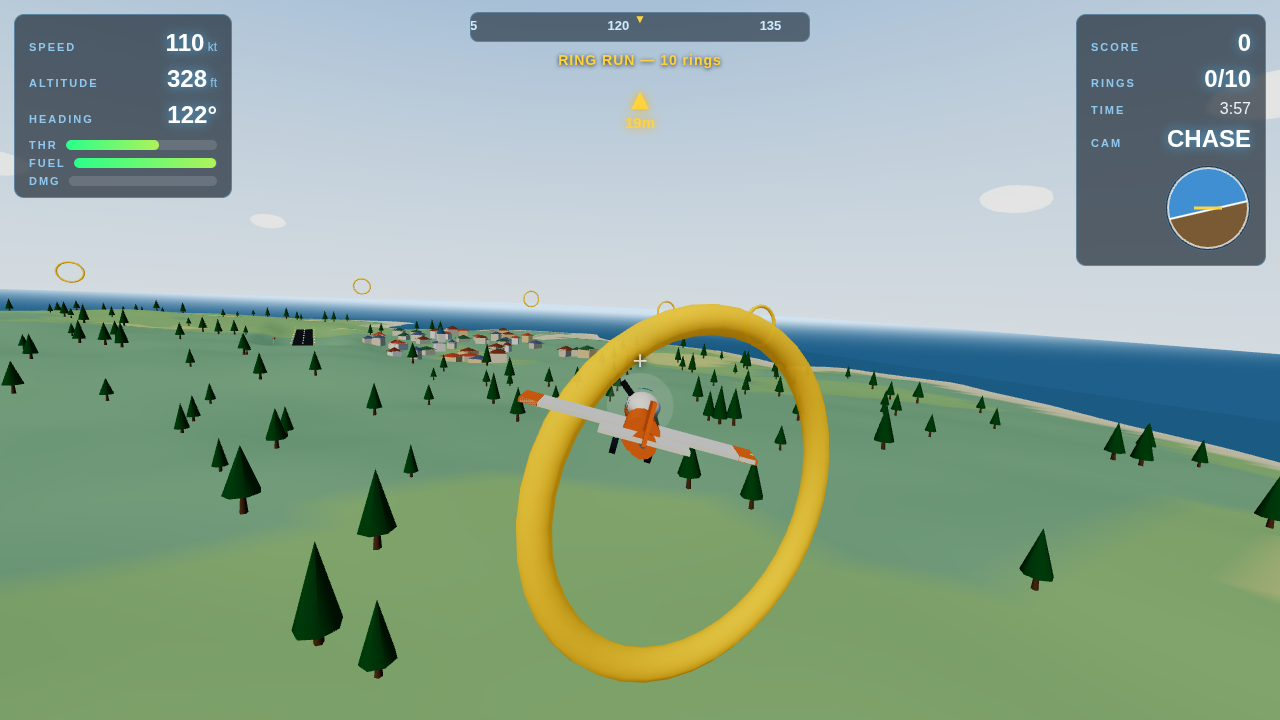
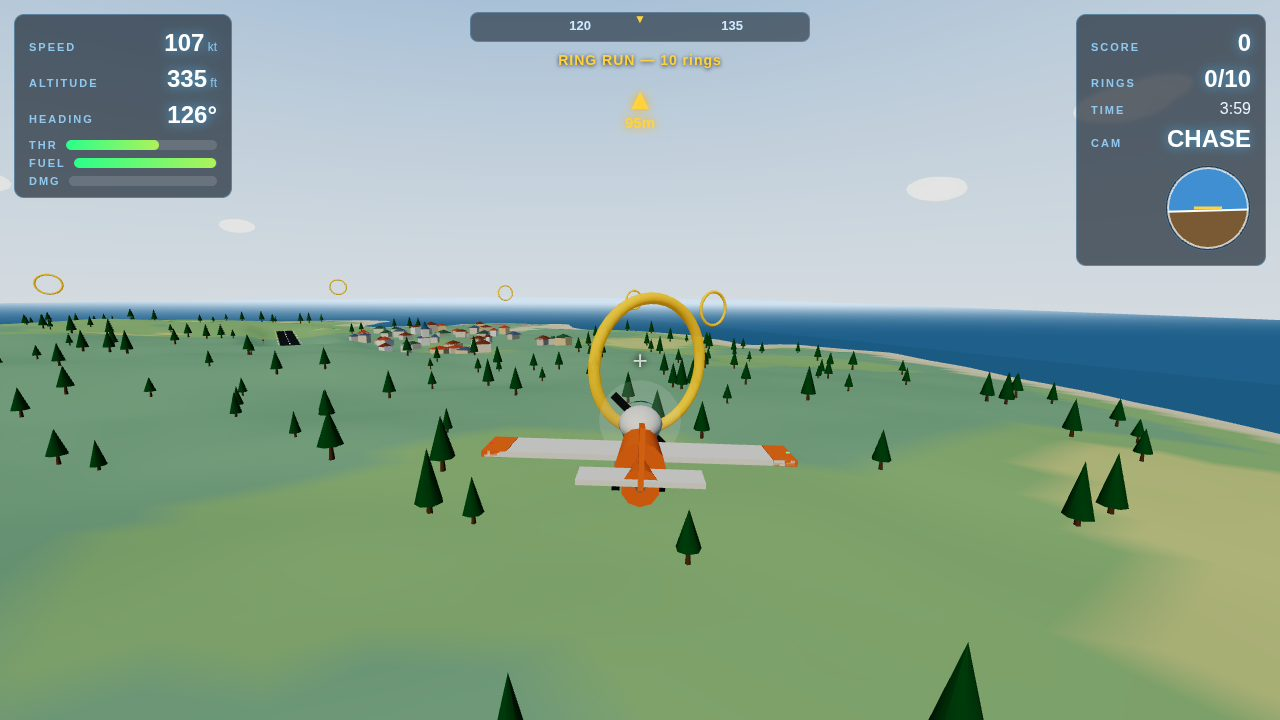
SKYLANE: re-shoot cover + cockpit screenshots
Cover: capture earlier (1.8s, plane ~100m out) with a closer chase
camera (11 vs 16) so the plane reads big and level and the first ring
sits ahead as a target instead of swallowing the plane.
Cockpit: capture earlier (1.5s) on the straight approach, before the
turn for ring 2 banks the plane and lets the terrain fill the top-right
corner of the frame (green strip). Ring + landing shots untouched.

diff --git a/game/src/camera.js b/game/src/camera.js
@@ -10,12 +10,16 @@ const THREE = window.THREE;
 export function createCamera() {
   const camera = new THREE.PerspectiveCamera(62, 1280 / 720, 0.1, 7000);
   let mode = 'chase'; // 'chase' | 'cockpit'
+  let chaseDist = CONFIG.camera.chaseDistance;
   const chasePos = new THREE.Vector3(0, 130, -680);
   return {
     camera,
     get mode() { return mode; },
     toggle() { mode = mode === 'chase' ? 'cockpit' : 'chase'; return mode; },
     setMode(m) { mode = m; },
+    // Screenshot shots may pull the chase camera closer so the plane reads
+    // bigger; normal play always uses the CONFIG distance.
+    setChaseDistance(d) { chaseDist = d; },
     update(plane, dt) {
       const fwd = forwardVector(plane);
       if (mode === 'cockpit') {
@@ -34,7 +38,7 @@ export function createCamera() {
         camera.fov += (58 + plane.speed * 0.12 - camera.fov) * Math.min(1, dt * 4);
         camera.updateProjectionMatrix();
       } else {
-        const dist = CONFIG.camera.chaseDistance;
+        const dist = chaseDist;
         const h = CONFIG.camera.chaseHeight;
         const tx = plane.pos.x - fwd.x * dist;
         const ty = plane.pos.y - fwd.y * dist + h;
@@ -57,9 +61,9 @@ export function createCamera() {
     snapTo(plane) {
       const fwd = forwardVector(plane);
       chasePos.set(
-        plane.pos.x - fwd.x * CONFIG.camera.chaseDistance,
-        plane.pos.y - fwd.y * CONFIG.camera.chaseDistance + CONFIG.camera.chaseHeight,
-        plane.pos.z - fwd.z * CONFIG.camera.chaseDistance,
+        plane.pos.x - fwd.x * chaseDist,
+        plane.pos.y - fwd.y * chaseDist + CONFIG.camera.chaseHeight,
+        plane.pos.z - fwd.z * chaseDist,
       );
       camera.position.copy(chasePos);
     },

diff --git a/game/src/shots.js b/game/src/shots.js
@@ -12,20 +12,26 @@ export function parseShotParams() {
 // Returns a spawn + mission + camera setup for the requested shot, or null.
 export function shotSetup(shot) {
   if (shot === 'cover') {
-    // chase view: plane mid-frame, first ring ahead, island + runway behind it
+    // chase view: plane mid-frame, first ring ahead, island + runway behind it.
+    // Captured early (plane ~100m out, ring a target ahead, not swallowing
+    // the plane) and with a closer chase camera so the plane reads big and
+    // level — the autopilot has barely rolled at this point.
     return {
       mode: 'rings',
       camera: 'chase',
       spawn: { x: -760, y: 105, z: 180, yaw: -2.21, speed: 52, throttle: 0.62 },
-      autopilot: true, holdSeconds: 3.2,
+      autopilot: true, holdSeconds: 1.8, chaseDistance: 11,
     };
   }
   if (shot === 'cockpit') {
+    // Captured on the straight approach to ring 1, before the turn for ring 2
+    // banks the plane: a banked cockpit camera tilts the horizon and lets the
+    // terrain fill the top-right corner of the frame (the green strip).
     return {
       mode: 'rings',
       camera: 'cockpit',
       spawn: { x: -720, y: 100, z: 210, yaw: -2.21, speed: 55, throttle: 0.65 },
-      autopilot: true, holdSeconds: 2.4,
+      autopilot: true, holdSeconds: 1.5,
     };
   }
   if (shot === 'ring') {

diff --git a/game/src/main.js b/game/src/main.js
@@ -257,6 +257,7 @@ if (shot) {
     }
   }
   cameraRig.setMode(shot.camera);
+  if (shot.chaseDistance) cameraRig.setChaseDistance(shot.chaseDistance);
   cameraRig.snapTo(plane);
   menuEl.style.display = 'none';
   hud.setVisible(true);
